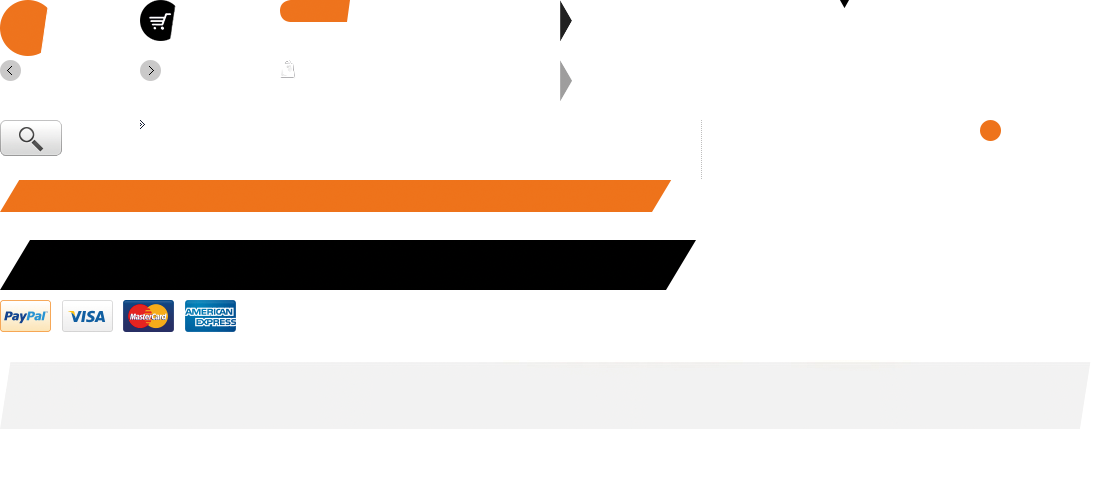
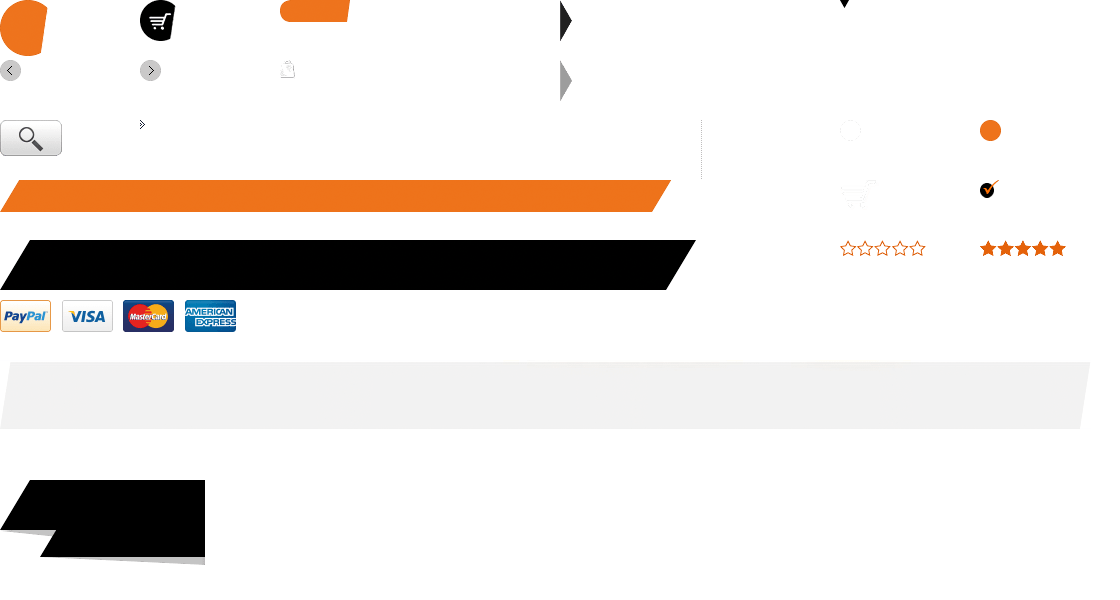
style change, review summery added

diff --git a/skin/frontend/default/softss/css/styles.css b/skin/frontend/default/softss/css/styles.css
@@ -10,6 +10,7 @@ a:hover       { text-decoration:none; }
 :focus        { outline:0; }
 
 /* Headings */
+h1,h2         {font-family: 'Aller_Lt',sans-serif;}
 h1,h3,
 h4,h5,h6      { margin:0 0 5px; line-height:1.35; color:#fff; }
 h2            { color:#011a35}
@@ -1223,10 +1224,10 @@ h1.homepage-softwaress{color:#ff7300;padding:20px 0; font-family: 'Aller_Lt',San
 .product-collateral .box-collateral { margin:0 0 25px; }
 
 /* Product Images */
-.product-view .product-img-box { float:left; width:267px; z-index: 50; position:relative;}
+.product-view .product-img-box { float:left; width:470px; height: 490px; z-index: 50; position:relative; background: #fff url(../images/red_line.png) 460px 0 no-repeat; }
 .col3-layout .product-view .product-img-box { float:none; margin:0 auto; }
 .product-view .product-img-box .product-image { margin:0 0 13px; }
-.product-view .product-img-box .product-image-zoom { position:relative; width:265px; height:265px; overflow:hidden; z-index:9; }
+.product-view .product-img-box .product-image-zoom { position:relative; width:470px; height:265px; overflow:hidden; z-index:9; }
 .product-view .product-img-box .product-image-zoom img { position:absolute; left:0; top:0; cursor:move; }
 .product-view .product-img-box .zoom-notice { font-size:11px; margin:0 0 5px; text-align:center; }
 .product-view .product-img-box .zoom { position:relative; z-index:9; height:18px; margin:0 auto 13px; padding:0 28px; background:url(../images/slider_bg.gif) 50% 50% no-repeat; cursor:pointer; }
@@ -1253,7 +1254,7 @@ h1.homepage-softwaress{color:#ff7300;padding:20px 0; font-family: 'Aller_Lt',San
 .product-view .product-shop .product-name { margin:0 0 5px; }
 .product-view .product-shop .product-name h1 { margin:0; font:'Aller_Rg', sans-serif; color:#FF7300;}
 .product-view .product-shop .availability { margin:10px 0; }
-.product-view .product-shop .short-description { margin:10px 0; background:url(../images/bkg_divider1.gif) 0 0 repeat-x; padding:10px 0 0; }
+.product-view .product-shop .short-description { margin:0; padding:0; display: inline-block;}
 .product-view .product-shop .price-box { margin:10px 0; line-height: 1;}
 .product-view .product-shop .add-to-links { margin:20px 0 0 0; }
 .product-view .product-shop .add-to-links { font-size:12px; text-align:right; }
@@ -1383,7 +1384,7 @@ h1.homepage-softwaress{color:#ff7300;padding:20px 0; font-family: 'Aller_Lt',San
 .product-view .product-tabs li.last { border-right:0; }
 .product-view .product-tabs a {
     display:block;
-    padding:17px 40px;
+    padding: 17px 40px 15px 40px;
     text-decoration:none;
     text-transform: capitalize;
     color:#5a5a5a;
@@ -1392,8 +1393,8 @@ h1.homepage-softwaress{color:#ff7300;padding:20px 0; font-family: 'Aller_Lt',San
 .product-view .product-tabs li.active a,
 .product-view .product-tabs li.active a:hover {
     font-weight: bold;
-    padding: 17px 40px 15px 40px;
     text-decoration: none;
+    padding:17px 40px;
     color:#5a5a5a;
 }
 .product-view .product-tabs-content h2 { display:none; font-size:12px; font-weight:bold; }
